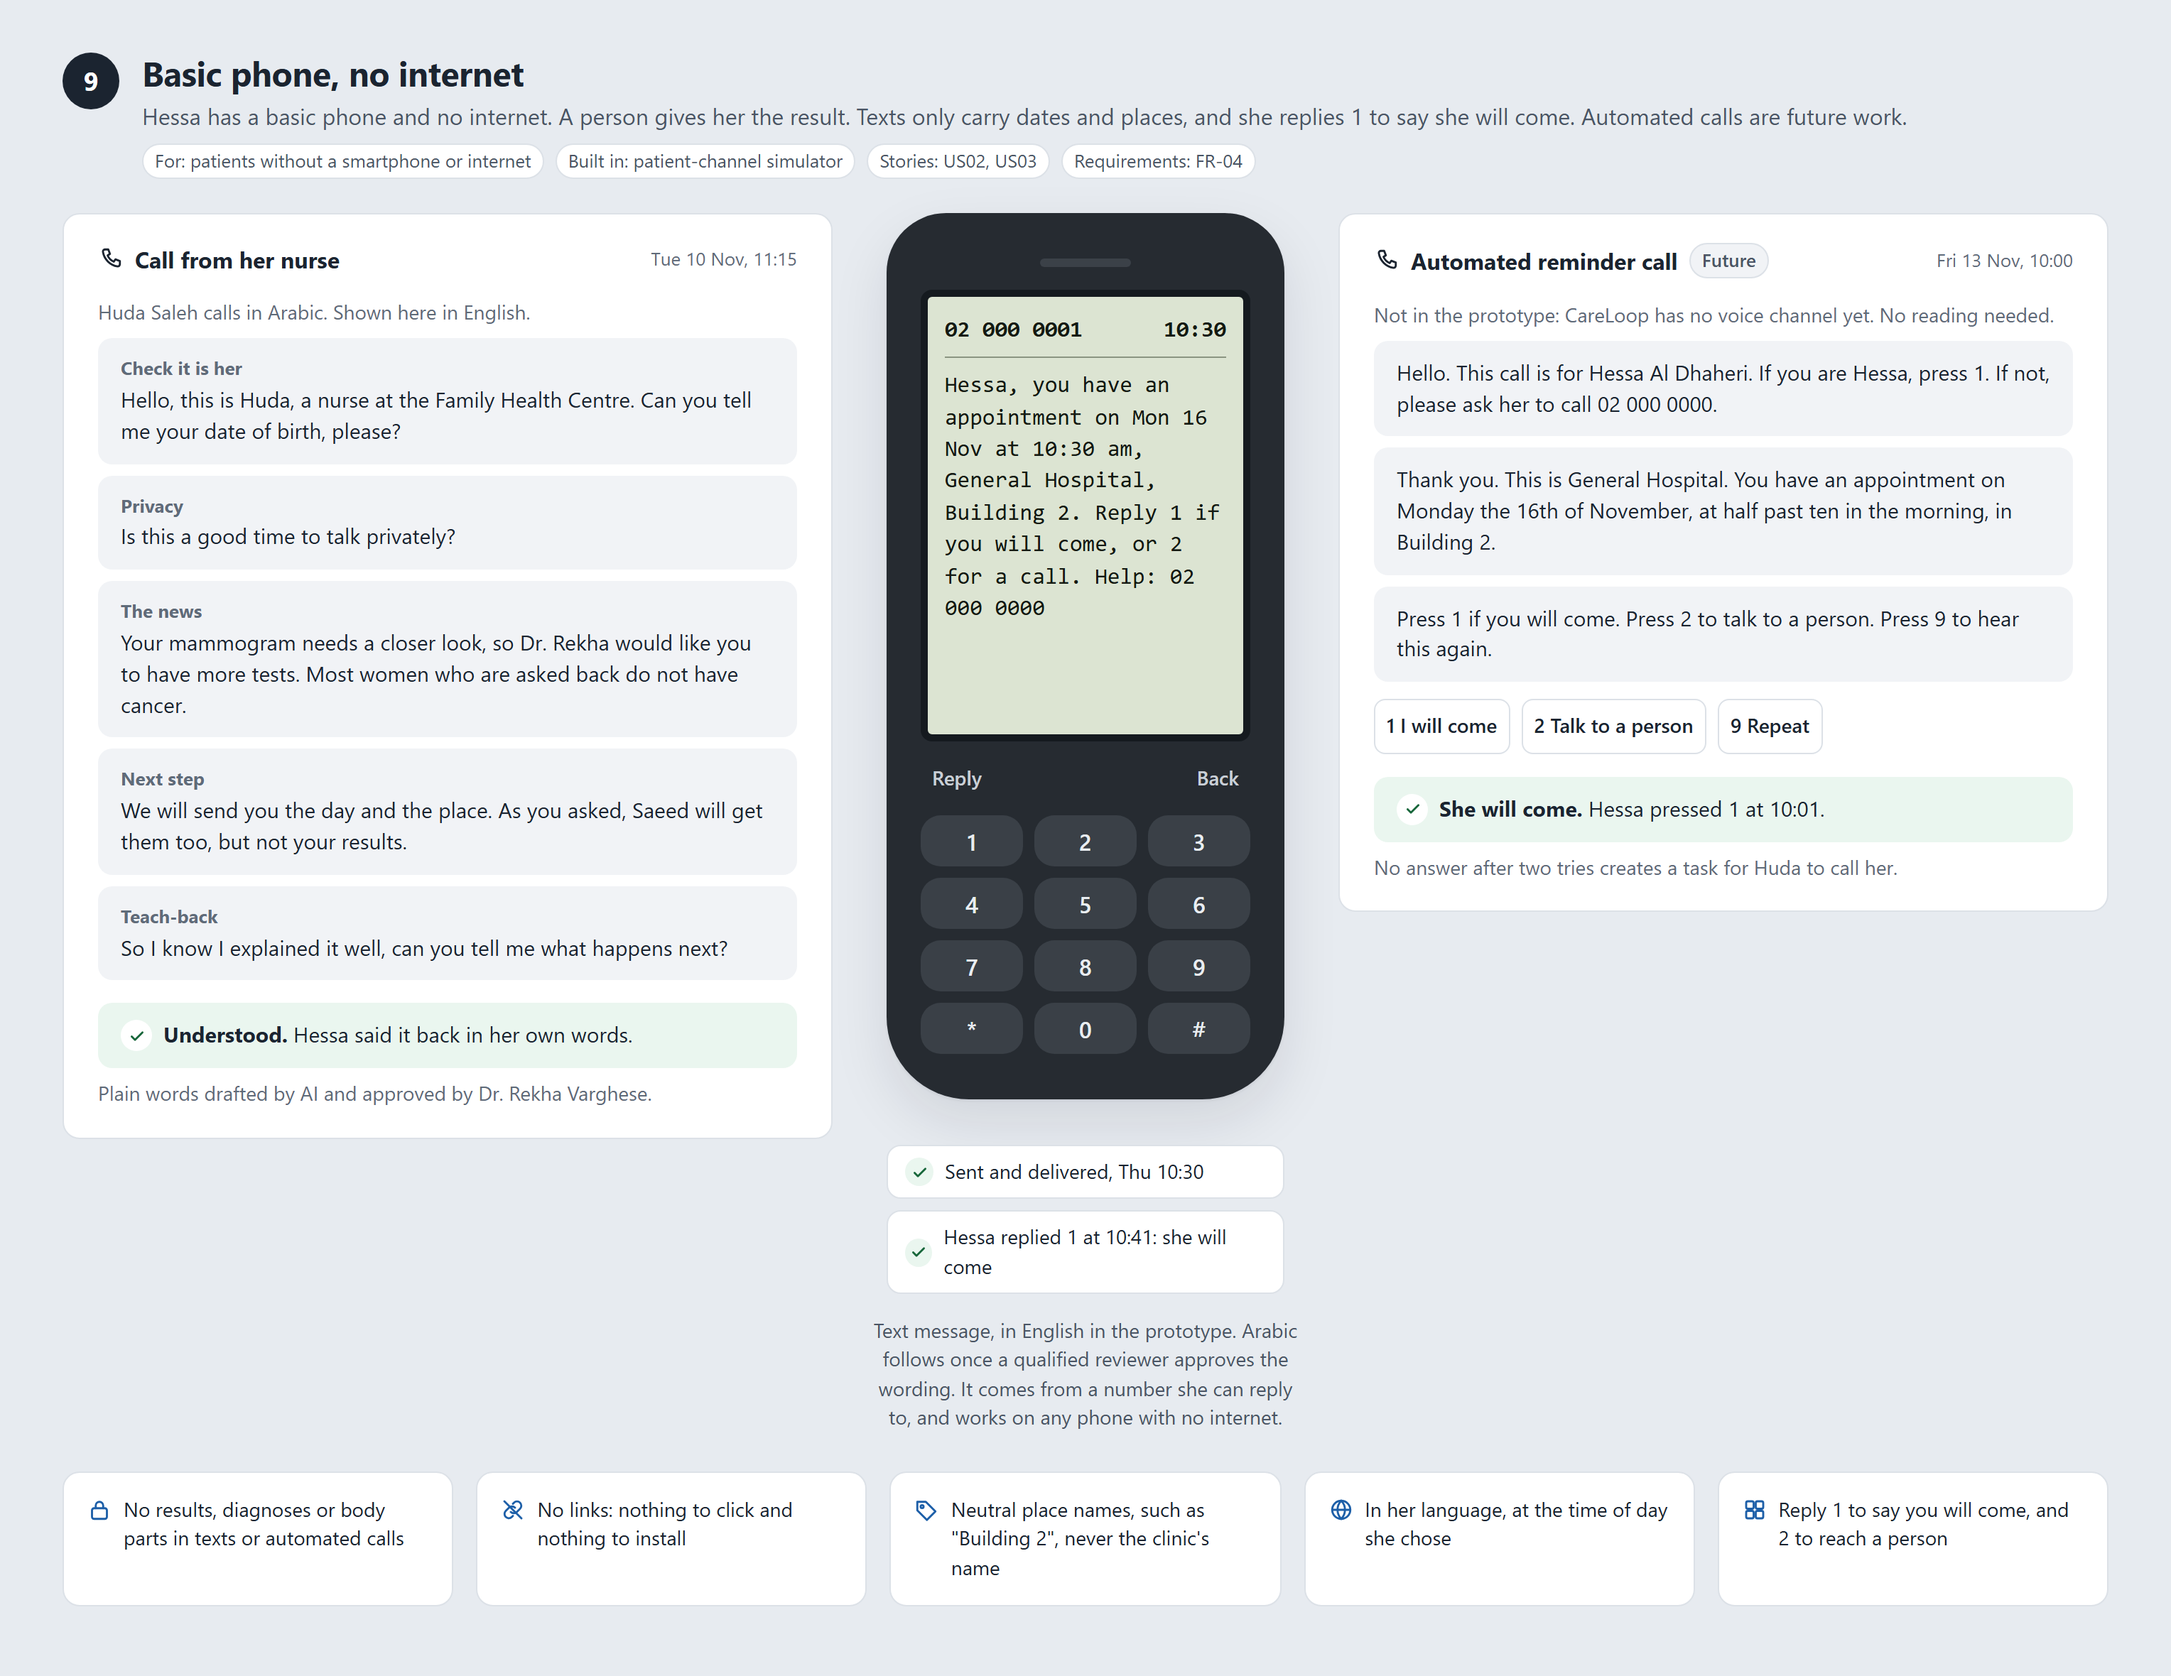
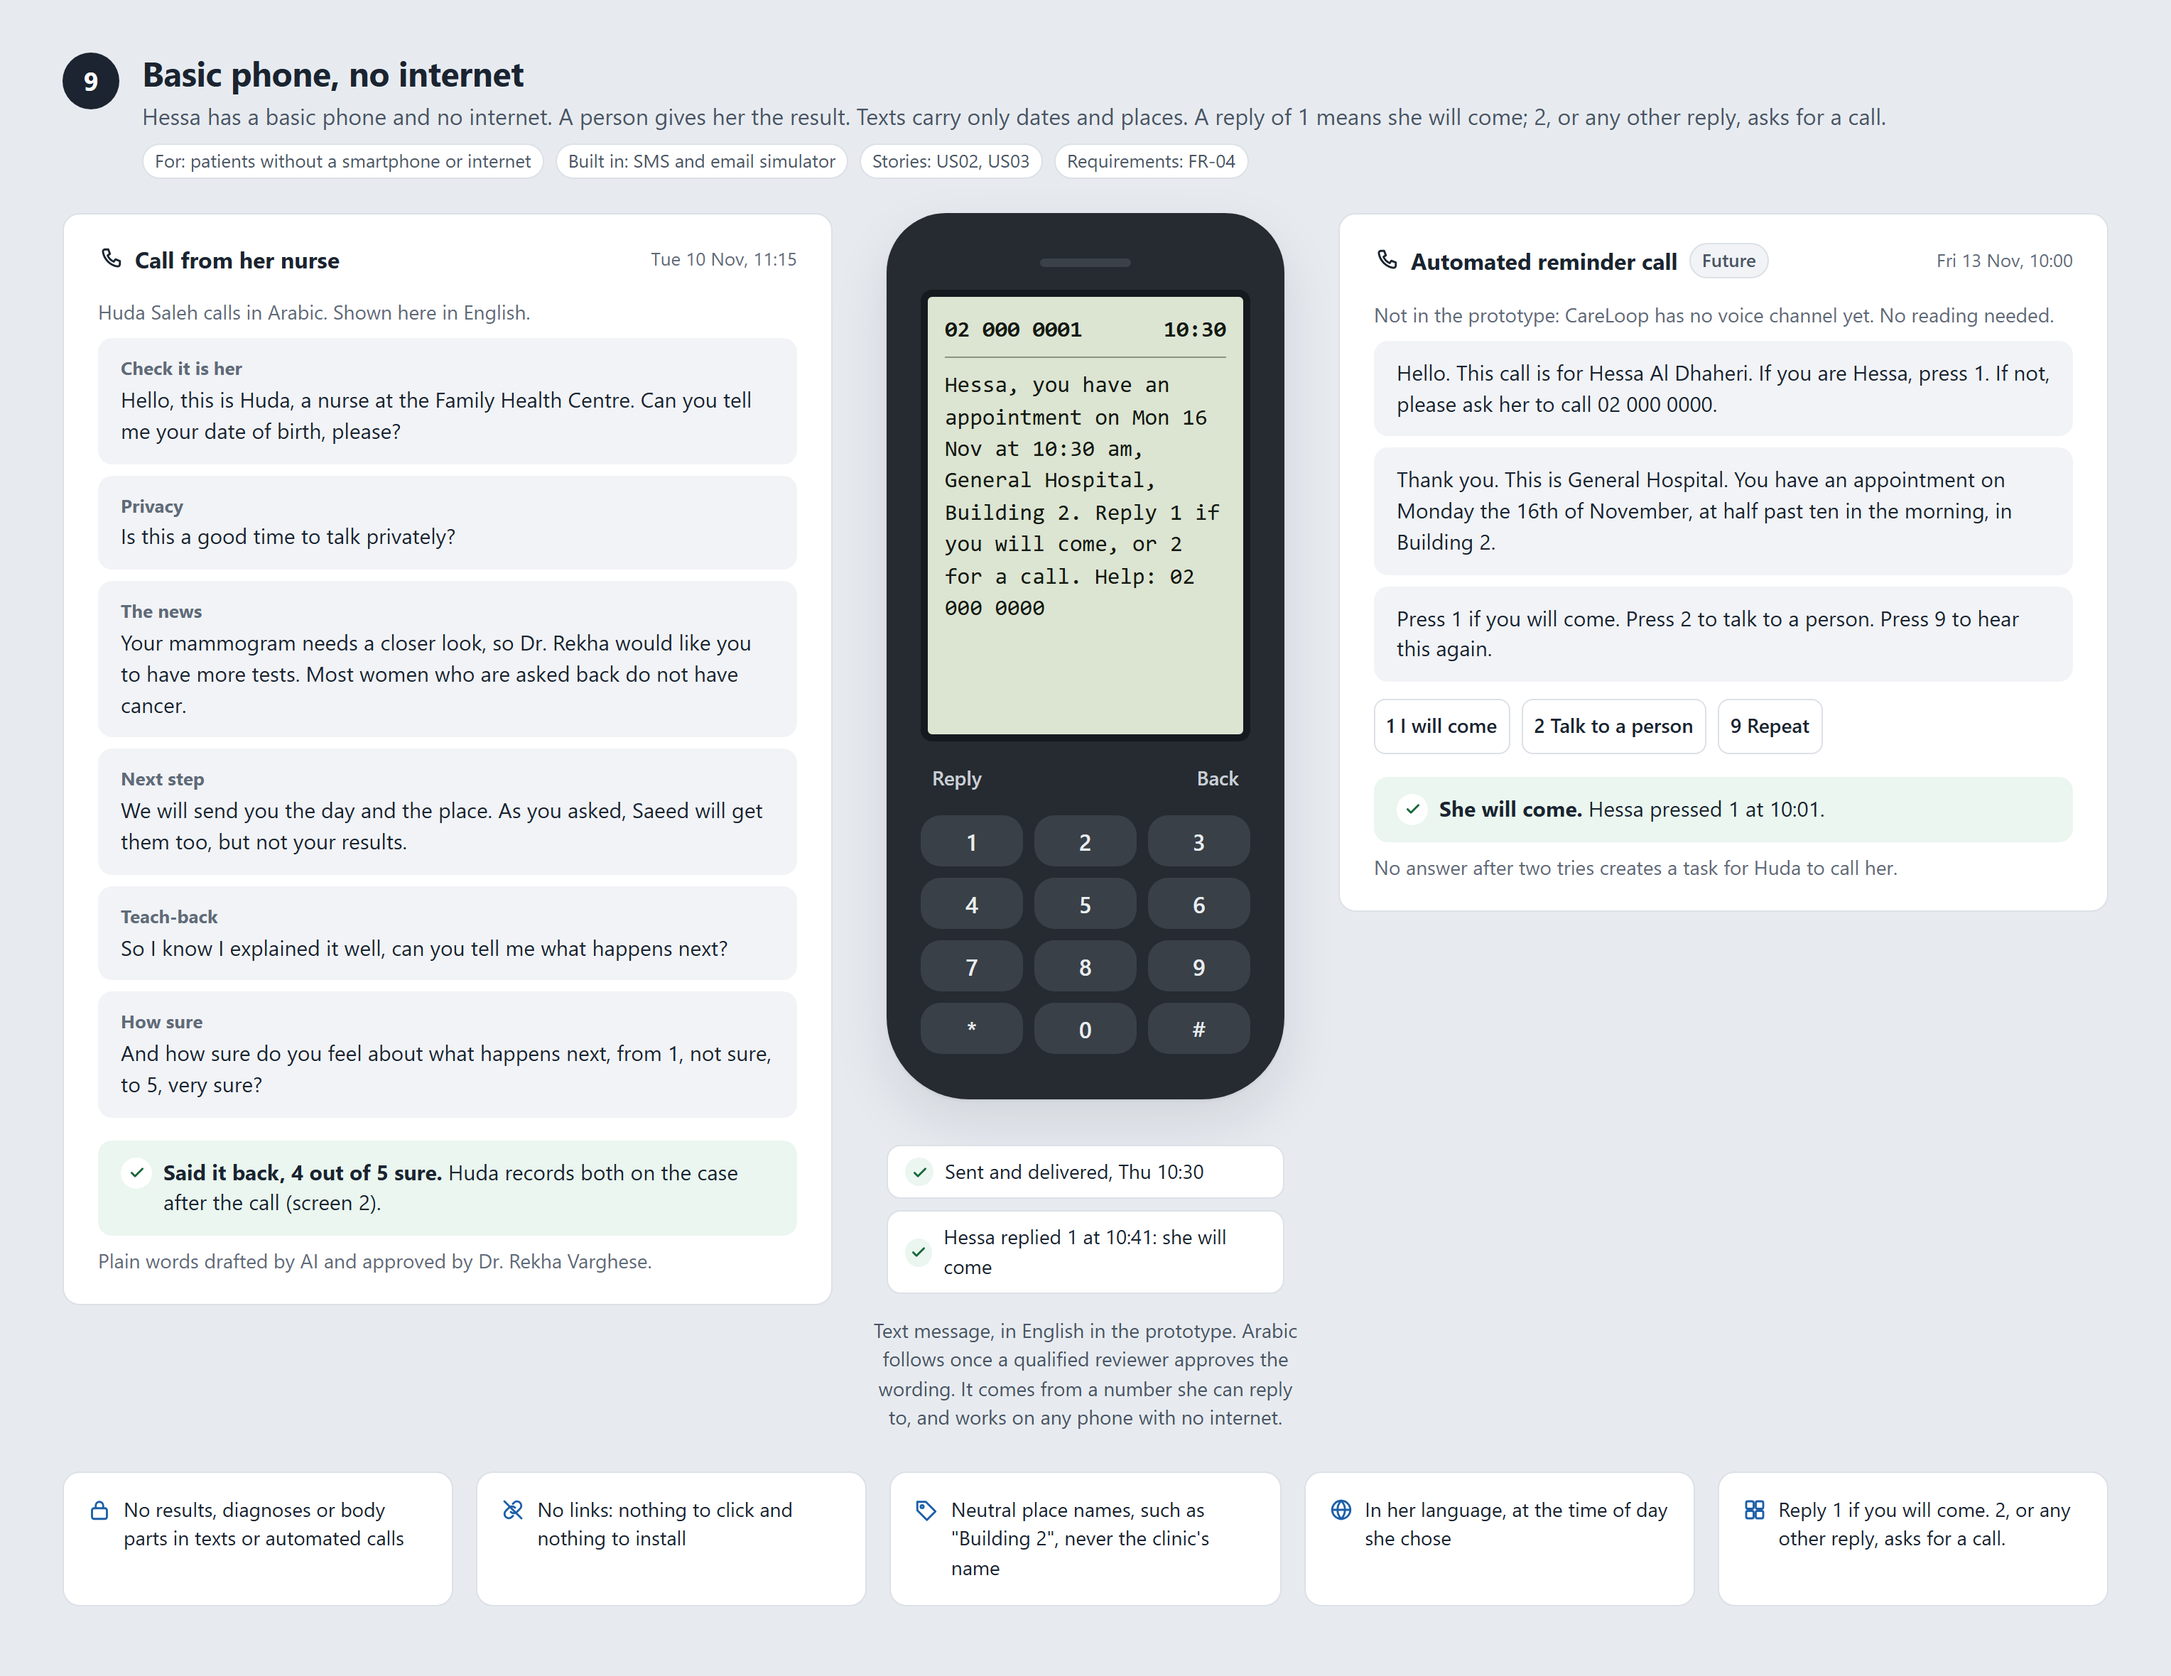
Treat any other text reply as a call request (P12)
On screen 9 a reply of 1 means she will come; 2, or any other reply, asks for a call
(decision 29). The nurse's call asks her to say the next step back and how sure she feels,
and Huda records both on screen 2. Automated calls stay marked Future.

diff --git a/docs/ui-design/README.md b/docs/ui-design/README.md
@@ -259,10 +259,11 @@ Hessa's journey:
 
 ![Basic phone, no internet](09-basic-phone.png)
 
-- Delivery sends `NotificationUpdated/Delivered`, and failure `/Failed`. On a call, the nurse records on screen 2 that she will come (`/Acknowledged`), that she said the next step back (`/Understood`) and how sure she feels (`/ConfidenceRated`).
+- Delivery sends `NotificationUpdated/Delivered`, and failure `/Failed`.
+- Huda's call ends with two questions: can Hessa say the next step back, and how sure does she feel, from 1 to 5. After the call, Huda records on screen 2 that she said it back (`/Understood`) and how sure she feels (`/ConfidenceRated`), and that she will come (`/Acknowledged`) when she says so on a call.
 - Replying 1 sends `/Acknowledged` (she will come), and 2 sends `/CallRequested`. Any other reply also sends `/CallRequested`: someone should call her (decision 29). Replies need two-way texts: C7 and C22 in the simulator, and an agreement with the text provider in production.
 - A person gives results. Texts carry only dates and places, with no links, and come from a number the patient can reply to.
-- Automated calls are future work: there is no voice channel in `NotificationChannel`. The screen shows how they would work.
+- Automated calls are future work: there is no voice channel in `NotificationChannel`. The screen marks the call "Future" and shows how it would work.
 - Texts are in English in the prototype (screen 11).
 
 ### 10. Patient email
